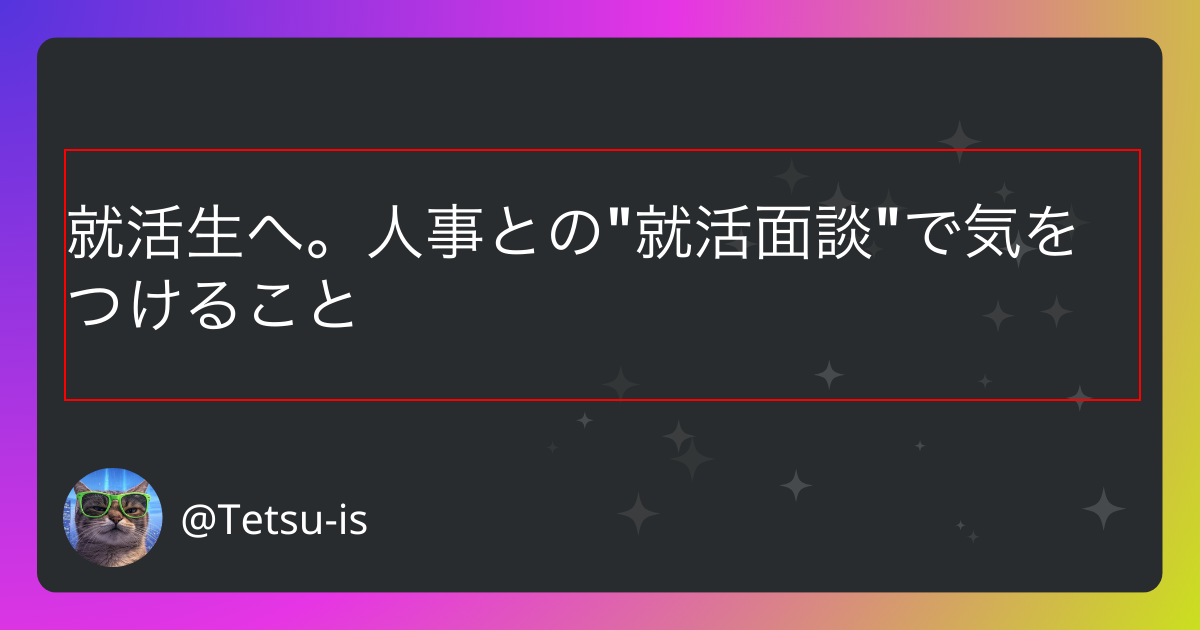
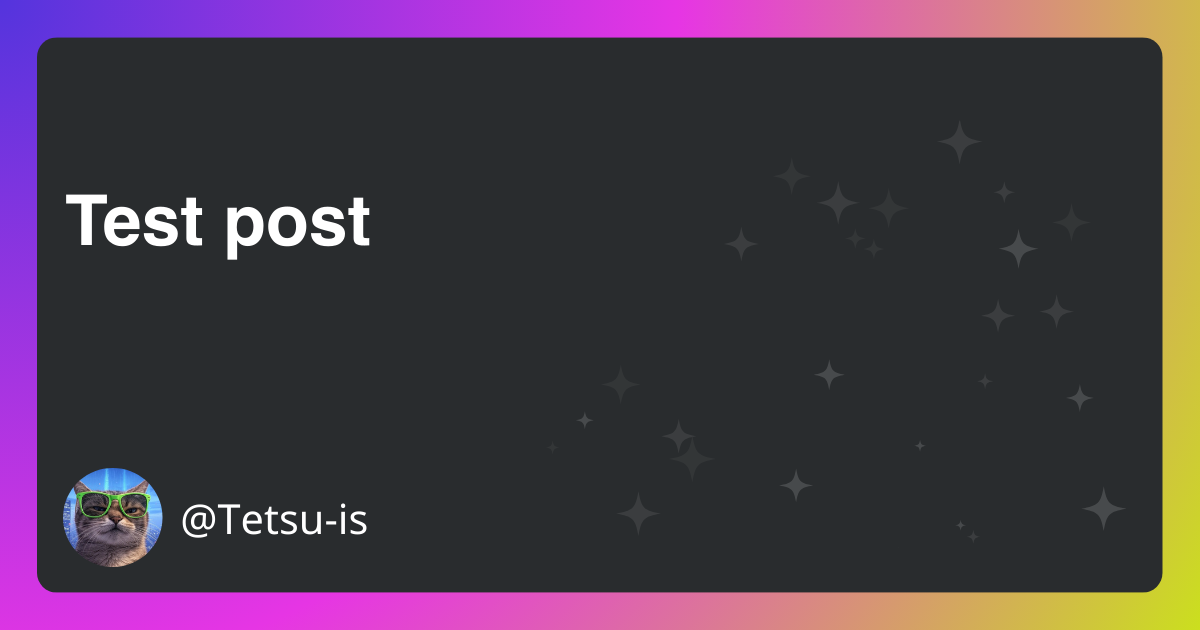
fix

diff --git a/scripts/oggen.ts b/scripts/oggen.ts
@@ -3,7 +3,21 @@ import fs from "fs";
 import { CanvasRenderingContext2D, createCanvas, loadImage } from "canvas";
 
 const __dirname = path.dirname(new URL(import.meta.url).pathname);
-const projectRoot = path.resolve(__dirname, "../../..");
+
+const findProjectRoot = () => {
+  let currentDir = __dirname;
+  while (currentDir !== "/") {
+    if (fs.existsSync(path.join(currentDir, "package.json"))) {
+      return currentDir;
+    }
+    currentDir = path.dirname(currentDir);
+  }
+  throw new Error(
+    "Could not find project root (no package.json found in parent directories)"
+  );
+};
+
+const projectRoot = findProjectRoot();
 
 const size = {
   width: 1200,
@@ -54,6 +68,12 @@ export const generateOgImage = async ({
   fileName,
   title,
 }: Args): Promise<void> => {
+  // Skip OG image generation in development mode
+  if (process.env.NODE_ENV !== "production") {
+    console.log("Skipping OG image generation in development mode");
+    return;
+  }
+
   /// create canvas
   const canvas = createCanvas(size.width, size.height);
   const ctx = canvas.getContext("2d");

diff --git a/src/content/config.ts b/src/content/config.ts
@@ -1,26 +1,26 @@
 import { defineCollection, z } from "astro:content";
 
 export type BlogSchema = {
-	title: string;
-	description: string;
-	pubDate: Date;
-	updatedDate?: Date;
-	heroImage?: string;
-	blogID: string;
+  title: string;
+  description: string;
+  pubDate: Date;
+  updatedDate?: Date;
+  heroImage: string;
+  blogID: string;
 };
 
 const blog = defineCollection({
-	type: "content",
-	// Type-check frontmatter using a schema
-	schema: z.object({
-		title: z.string(),
-		description: z.string(),
-		// Transform string to Date object
-		pubDate: z.coerce.date(),
-		updatedDate: z.coerce.date().optional(),
-		heroImage: z.string().optional(),
-		blogID: z.string(),
-	}),
+  type: "content",
+  // Type-check frontmatter using a schema
+  schema: z.object({
+    title: z.string(),
+    description: z.string(),
+    // Transform string to Date object
+    pubDate: z.coerce.date(),
+    updatedDate: z.coerce.date().optional(),
+    heroImage: z.string(),
+    blogID: z.string(),
+  }),
 });
 
 export const collections = { blog };

diff --git a/src/content/blog/publish-blog-flow.md b/src/content/blog/publish-blog-flow.md
@@ -2,7 +2,7 @@
 title: "自作ブログサイトの投稿フローを整備した話"
 description: "自作ブログサイトの投稿フローの効率化方法について説明します。"
 pubDate: "Feb 15 2025"
-heroImage: "/blog-placeholder-4.jpg"
+heroImage: "/og/publish-blog-flow.png"
 blogID: "01JM4JYQ9Q9G2F7X20JVNRMBEY"
 ---
 
@@ -219,7 +219,6 @@ jobs:
           apiToken: ${{ secrets.CLOUDFLARE_API_TOKEN }}
           accountId: ${{ secrets.CLOUDFLARE_ACCOUNT_ID }}
           command: pages deploy ./dist --project-name tetsu-tech-blog
-
 ```
 
 #### まとめ

diff --git a/src/content/blog/chrome-extension-devin.md b/src/content/blog/chrome-extension-devin.md
@@ -2,7 +2,7 @@
 title: "Chrome拡張のUI部分をWebページとして実行してデバッグできるようにしてみた"
 description: "AIツールの恩恵を受けるためにChrome拡張のUI部分をChrome拡張機能環境に依存しないようにしたときの備忘録"
 pubDate: "Feb 28 2025"
-heroImage: "/blog-placeholder-2.jpg"
+heroImage: "/og/chrome-extension-devin.png"
 blogID: "01JN63XZXGTDT36V2H8QQEFDW5"
 ---
 

diff --git a/src/content/blog/job-hunting-interview.md b/src/content/blog/job-hunting-interview.md
@@ -2,7 +2,7 @@
 title: '就活生へ。人事との"就活面談"で気をつけること'
 description: "就活で人事担当者と面談する機会が多くあります。そこで気をつけたいことについて話します。"
 pubDate: "Feb 12 2025"
-heroImage: "/blog-placeholder-3.jpg"
+heroImage: "/og/job-hunting-interview.png"
 blogID: "01JKTXKBH426NMDSVHTPFMM529"
 ---
 

diff --git a/src/content/blog/looking-back-2024.md b/src/content/blog/looking-back-2024.md
@@ -2,7 +2,7 @@
 title: "2024年の開発を振り返る"
 description: "2024 年の開発を振り返る記事です。"
 pubDate: "Jan 15 2025"
-heroImage: "/blog-placeholder-2.jpg"
+heroImage: "/og/looking-back-2024.png"
 blogID: "01JHTDF6QZRZCAQHT8CW78M7GW"
 ---
 
